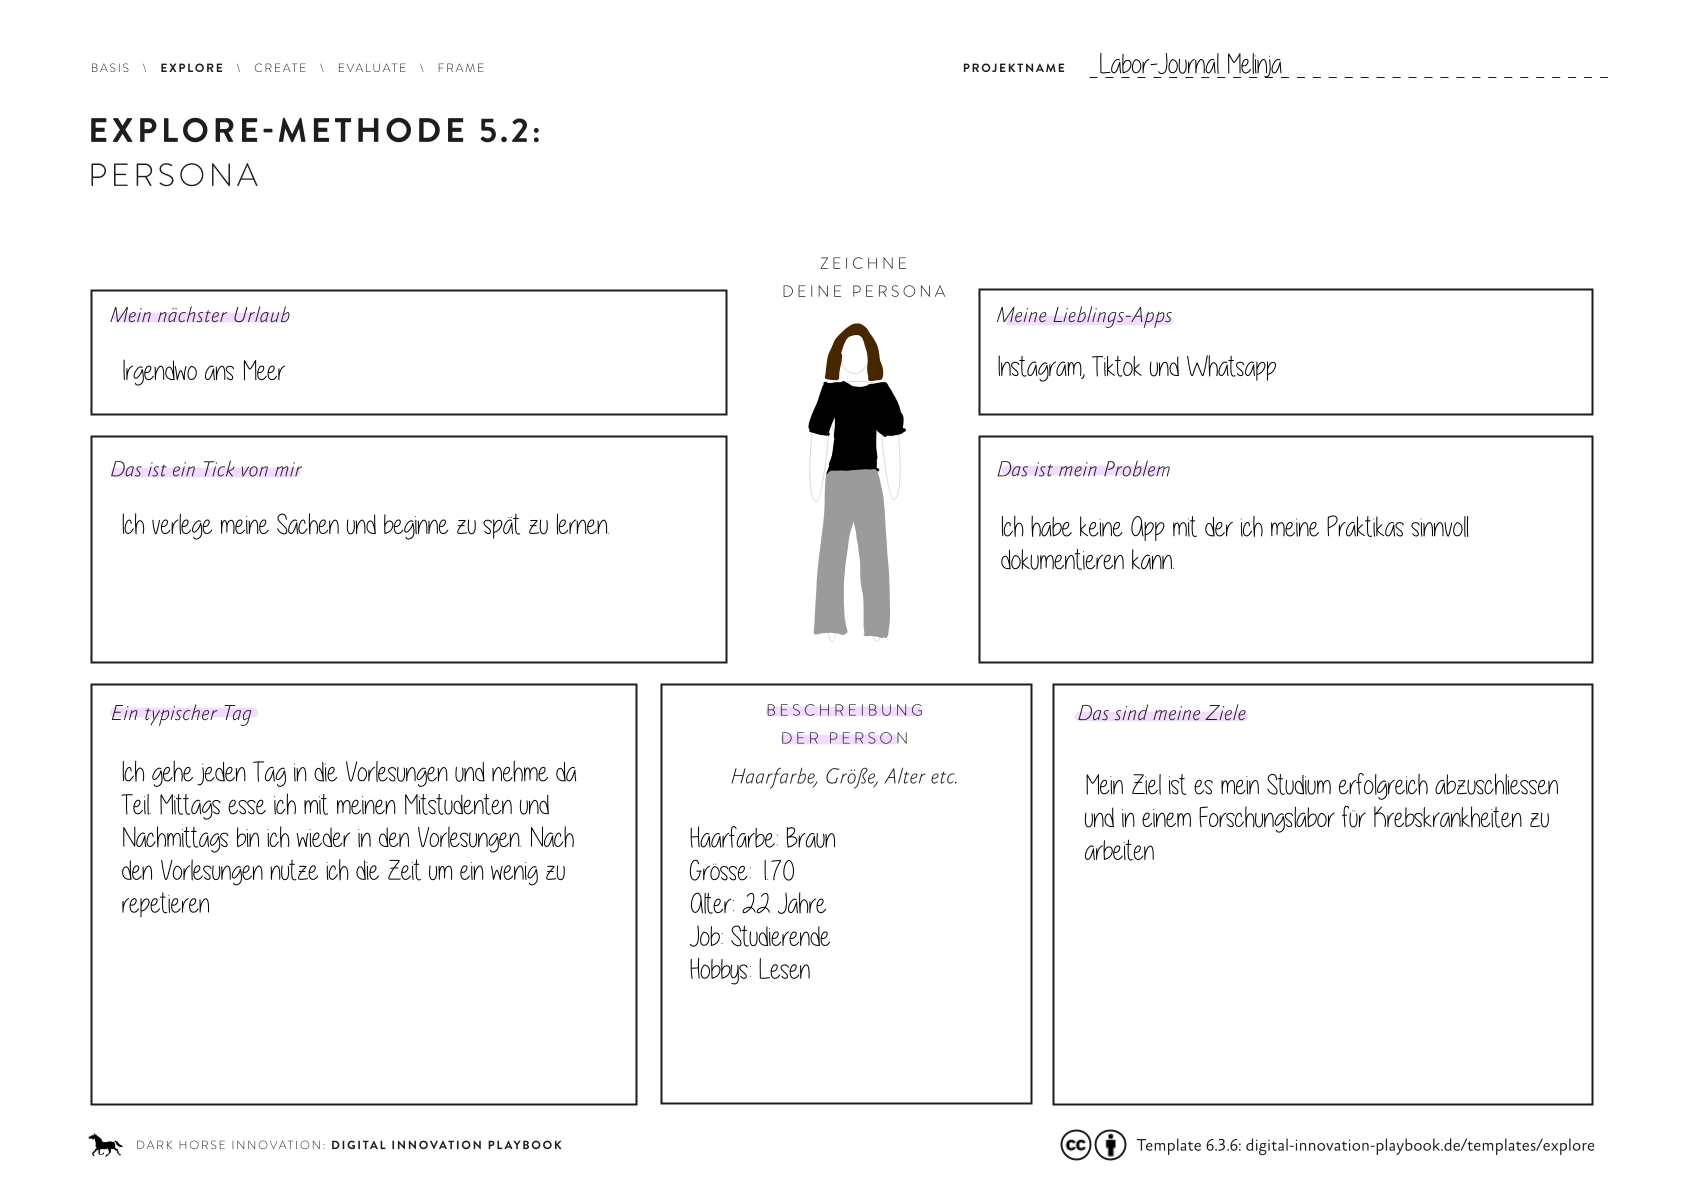
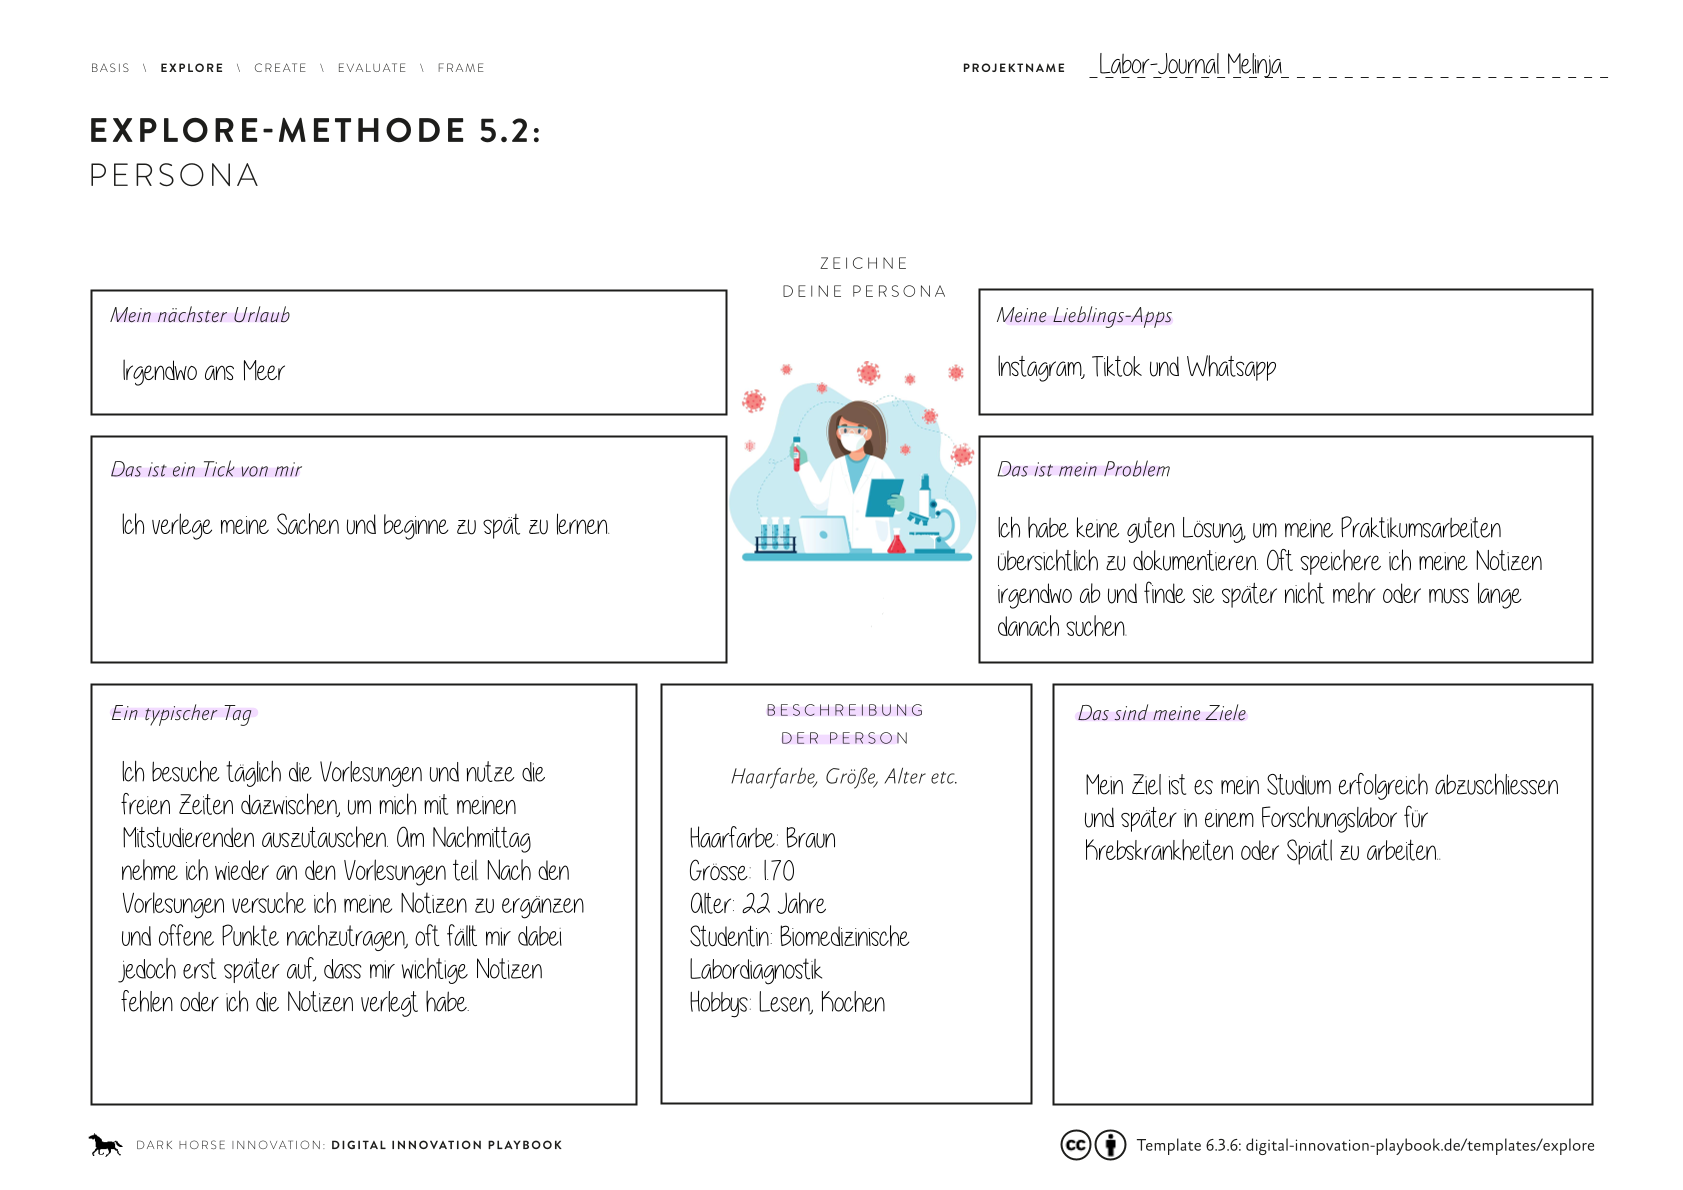
neue persona/wireframes

diff --git a/docs/Wireframes.md b/docs/Wireframes.md
@@ -1,4 +1,4 @@
 # Wireframes
 
-![Wireframe](../files/images/0013.png)
-![Wireframe](../files/images/0014.png)
+![Wireframe](../files/images/0019.png)
+![Wireframe](../files/images/0020.png)

diff --git a/docs/Persona.md b/docs/Persona.md
@@ -1,3 +1,3 @@
 # Persona
 
-![Persona](../files/images/0012.png)
+![Persona](../files/images/0018.png)
